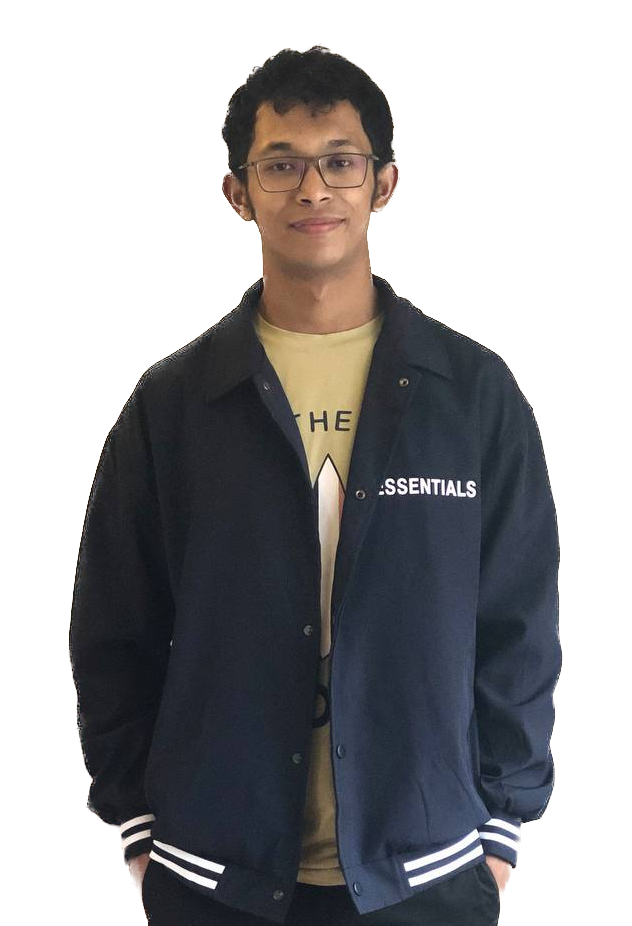
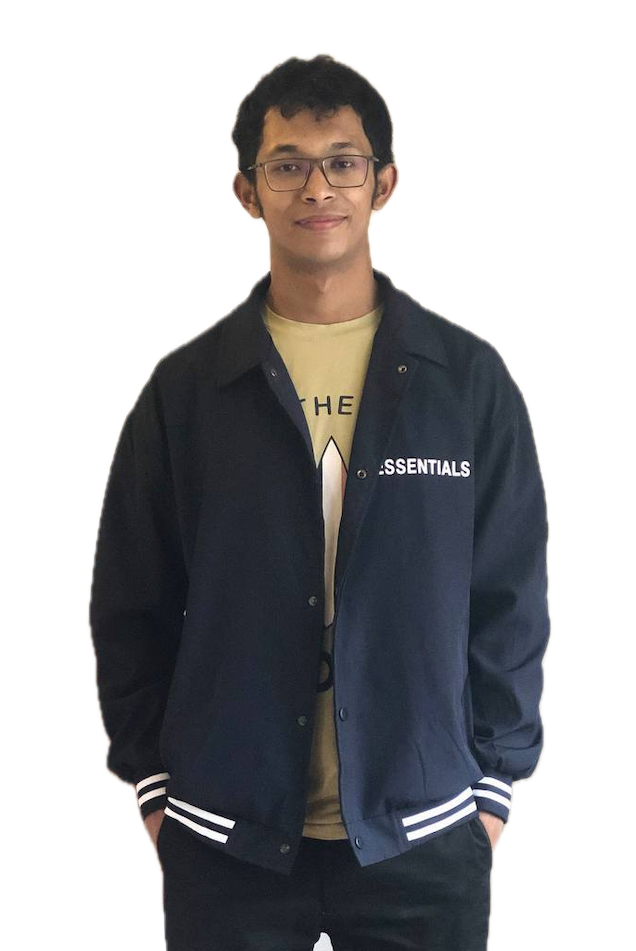
about page finished

Changed region(s): [[0.2104, 0.0302, 0.9019, 1.0], [0.0902, 0.4233, 0.3608, 1.0], [0.6313, 0.3931, 0.6614, 0.4233]]

diff --git a/src/components/Biography.js b/src/components/Biography.js
@@ -1,6 +1,6 @@
 import Image from "next/image";
 import React from "react";
-import { AnimatedNumber } from "./AnimatedNumber";
+
 import profilePics from "@/images/IMG_8186.png";
 
 export const Biography = () => {
@@ -42,14 +42,13 @@ export const Biography = () => {
         </p>
       </div>
       <div
-        className="col-span-4 relative h-max rounded-2xl border-2 border-solid border-dark
-            bg-light p-8 md:order-1 md:col-span-8"
+        className="col-span-4 relative h-max border-dark/60 border-2 border-solid shadow-lg
+            bg-light p-4 md:order-1 md:col-span-8 rounded-tr-[616px] rounded-tl-[316px] rounded-bl-[616px] rounded-br-[316px]"
       >
-        <div className="absolute top-0 -right-3 -z-10 w-[102%] h-[103%] rounded-[2rem] bg-dark" />
         <Image
           src={profilePics}
           alt="ToeWaiPhyo"
-          className="w-full h-auto rounded-2xl bg-dark/80"
+          className="w-full h-auto bg-dark/80 rounded-tr-[600px] rounded-tl-[310px] rounded-bl-[600px] rounded-br-[300px]"
         />
       </div>
     </div>

diff --git a/src/components/AnimatedProgressBar.js b/src/components/AnimatedProgressBar.js
@@ -1,0 +1,37 @@
+"use client";
+import React, { useEffect, useRef } from "react";
+import { motion, useAnimation, useInView } from "framer-motion";
+
+const AnimatedProgressBar = ({ progress, skill }) => {
+  const ref = useRef(null);
+  const controls = useAnimation();
+  const isInView = useInView(ref);
+
+  useEffect(() => {
+    if (isInView) {
+      controls.start({
+        width: `${progress}%`,
+        transition: { duration: 0.5, ease: "easeInOut" },
+      });
+    } else {
+      controls.start({
+        width: "0",
+      });
+    }
+  }, [isInView, controls, progress]);
+  return (
+    <div className="w-full max-w-md mx-auto p-3 ">
+      <label className="text-lg font-semibold mb-2">{skill}</label>
+      <div className="relative h-3 bg-gray-300 rounded-md overflow-hidden">
+        <motion.div
+          ref={ref}
+          className="h-full bg-dark"
+          initial={{ width: "0%" }}
+          animate={controls}
+        />
+      </div>
+    </div>
+  );
+};
+
+export default AnimatedProgressBar;

diff --git a/src/app/about/page.js b/src/app/about/page.js
@@ -1,25 +1,27 @@
 import { TransitionEffect } from "@/components/TransitionEffect";
 import React from "react";
-import Layout from "../home/layout";
+import AppLayout from "../../components/AppLayout";
 import AnimatedText from "@/components/AnimatedText";
 import { Experience } from "@/components/Experience";
 import { Biography } from "@/components/Biography";
 import Education from "@/components/Education";
+import Skills from "@/components/Skills";
 
 const About = () => {
   return (
     <>
       <TransitionEffect />
       <div className="flex-1 flex flex-col items-center">
-        <Layout className="pt-16">
+        <AppLayout className="pt-16">
           <AnimatedText
             text="About Me"
             className="mb-16 !text-6xl lg:!text-5xl sm:!text-4xl xl:!text-3xl sm:mb-8"
           />
           <Biography />
+          <Skills />
           <Experience />
           <Education />
-        </Layout>
+        </AppLayout>
       </div>
     </>
   );

diff --git a/src/components/Experience.js b/src/components/Experience.js
@@ -3,6 +3,7 @@ import { useRef } from "react";
 import { motion, useScroll } from "framer-motion";
 import ExperienceDetail from "@/components/ExperienceDetail.js";
 import { experienceData } from "@/constants";
+import AnimatedText from "./AnimatedText";
 
 export const Experience = () => {
   const ref = useRef(null);
@@ -11,10 +12,11 @@ export const Experience = () => {
     offset: ["start end", "center start"],
   });
   return (
-    <div className="my-40">
-      <h2 className="font-bold mb-16 w-full text-center !text-6xl lg:!text-5xl sm:!text-4xl xl:!text-3xl md:mb-8">
-        Experience
-      </h2>
+    <div className="my-20">
+      <AnimatedText
+        text="Experiences"
+        className="mb-16 !text-6xl lg:!text-5xl sm:!text-4xl xl:!text-3xl sm:mb-8"
+      />
       <div className="w-[80%] mx-auto relative lg:w-[90%] md:w-full">
         <motion.div
           ref={ref}

diff --git a/src/components/Skills.js b/src/components/Skills.js
@@ -1,0 +1,30 @@
+import React from "react";
+import AnimatedProgressBar from "./AnimatedProgressBar";
+import { SkillsData } from "@/constants";
+import AnimatedText from "./AnimatedText";
+
+const Skills = () => {
+  return (
+    <div className="my-20">
+      <AnimatedText
+        text="Skills"
+        className="mb-16 !text-6xl lg:!text-5xl sm:!text-4xl xl:!text-3xl sm:mb-8"
+      />
+      <div className="grid w-full grid-cols-8 gap-16 sm:gap-8">
+        {SkillsData.map((skill, index) => (
+          <div
+            className="col-span-4 flex flex-col items-start justify-start md:col-span-8"
+            key={index}
+          >
+            <AnimatedProgressBar
+              progress={skill.progress}
+              skill={skill.skill}
+            />
+          </div>
+        ))}
+      </div>
+    </div>
+  );
+};
+
+export default Skills;

diff --git a/src/app/home/page.js b/src/app/home/page.js
@@ -1,5 +1,5 @@
 import React from "react";
-import Layout from "./layout";
+import AppLayout from "../../components/AppLayout";
 import Image from "next/image";
 import profilePics from "@/images/developer-pic-1.png";
 import AnimatedText from "@/components/AnimatedText";
@@ -12,7 +12,7 @@ const Home = () => {
     <>
       <TransitionEffect />
       <div className="flex-1 flex flex-col items-center text-dark w-full">
-        <Layout className="pt-0 md:pt-16 sm:pt-8">
+        <AppLayout className="pt-0 md:pt-16 sm:pt-8">
           <div className="flex items-center justify-between w-full lg:flex-col">
             <div className="w-1/2 lg:w-2/3 md:w-full">
               <Image
@@ -94,7 +94,7 @@ const Home = () => {
               </div>
             </div>
           </div>
-        </Layout>
+        </AppLayout>
       </div>
     </>
   );

diff --git a/src/components/Education.js b/src/components/Education.js
@@ -3,6 +3,7 @@ import React, { useRef } from "react";
 import ExperienceDetail from "./ExperienceDetail";
 import { motion, useScroll } from "framer-motion";
 import { educationData } from "@/constants";
+import AnimatedText from "./AnimatedText";
 
 const Education = () => {
   const eduRef = useRef();
@@ -12,9 +13,10 @@ const Education = () => {
   });
   return (
     <div className="my-40">
-      <h2 className="font-bold mb-16 w-full text-center !text-6xl lg:!text-5xl sm:!text-4xl xl:!text-3xl md:mb-8">
-        Education
-      </h2>
+      <AnimatedText
+        text="Education"
+        className="mb-16 !text-6xl lg:!text-5xl sm:!text-4xl xl:!text-3xl sm:mb-8"
+      />
       <div className="w-[80%] mx-auto relative lg:w-[90%] md:w-full">
         <motion.div
           ref={eduRef}

diff --git a/src/constants/index.js b/src/constants/index.js
@@ -58,3 +58,45 @@ export const educationData = {
     "Maintained a solid academic record,consistently achieving high grades in computer science coursework.",
   ],
 };
+export const SkillsData = [
+  {
+    skill: "React",
+    progress: 80,
+  },
+  {
+    skill: "React Native",
+    progress: 65,
+  },
+  {
+    skill: "Nodejs",
+    progress: 60,
+  },
+  {
+    skill: "HTML",
+    progress: 85,
+  },
+  {
+    skill: "CSS3",
+    progress: 90,
+  },
+  {
+    skill: "Tailwind",
+    progress: 80,
+  },
+  {
+    skill: "Bootstrap",
+    progress: 80,
+  },
+  {
+    skill: "SQL",
+    progress: 80,
+  },
+  {
+    skill: "Flutter",
+    progress: 45,
+  },
+  {
+    skill: "C#(.NET)",
+    progress: 40,
+  },
+];

diff --git a/src/components/AppLayout.js b/src/components/AppLayout.js
@@ -1,6 +1,6 @@
 import React from "react";
 
-const Layout = ({ children, className = "" }) => {
+const AppLayout = ({ children, className = "" }) => {
   return (
     <div
       className={`w-full inline-block z-0 px-32 xl:px-24 lg:px-16 md:px-12 sm:px-8 ${className}`}
@@ -10,4 +10,4 @@ const Layout = ({ children, className = "" }) => {
   );
 };
 
-export default Layout;
+export default AppLayout;

diff --git a/tailwind.config.js b/tailwind.config.js
@@ -16,10 +16,10 @@ module.exports = {
         sans: "var(--font-open-sans)",
       },
       colors: {
-        dark: "#1b1b1b",
-        light: "#f5f5f5",
-        primary: "#B63E96",
-        primaryDark: "#58E6D9",
+        dark: "#213555",
+        light: "#F0F0F0",
+        primary: "#4F709C",
+        primaryDark: "#E5D283",
       },
     },
     screens: {
